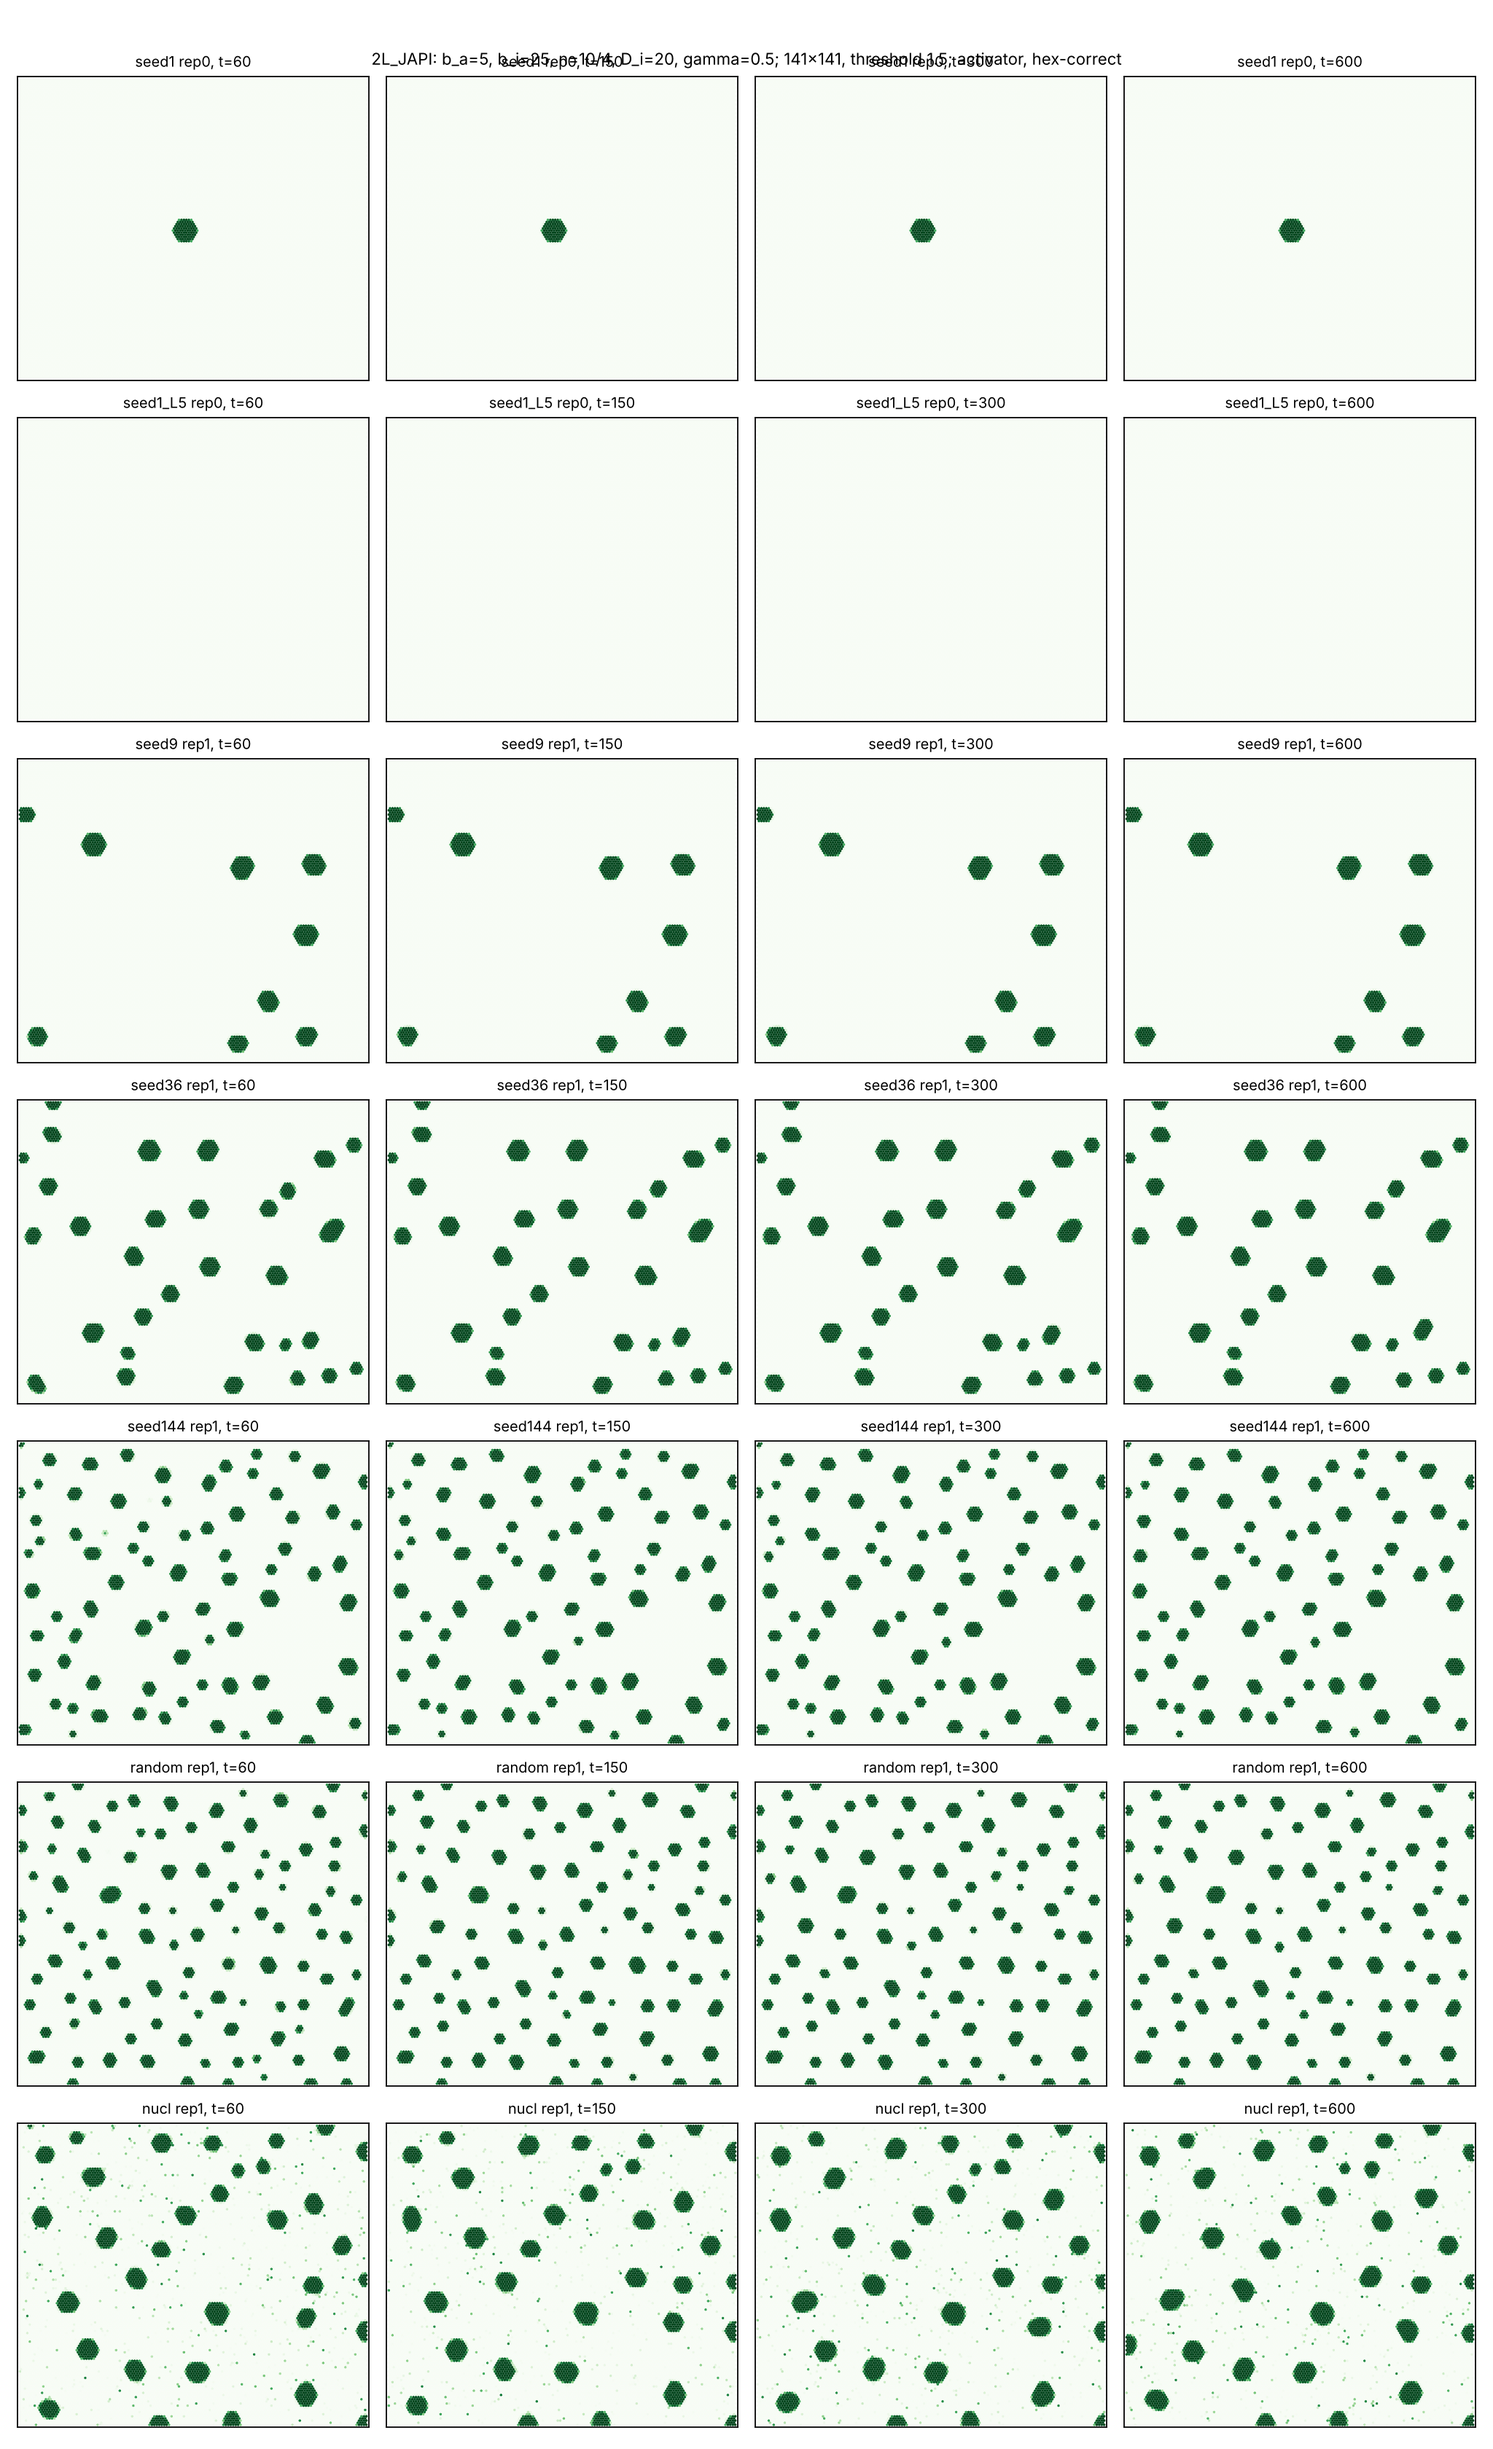
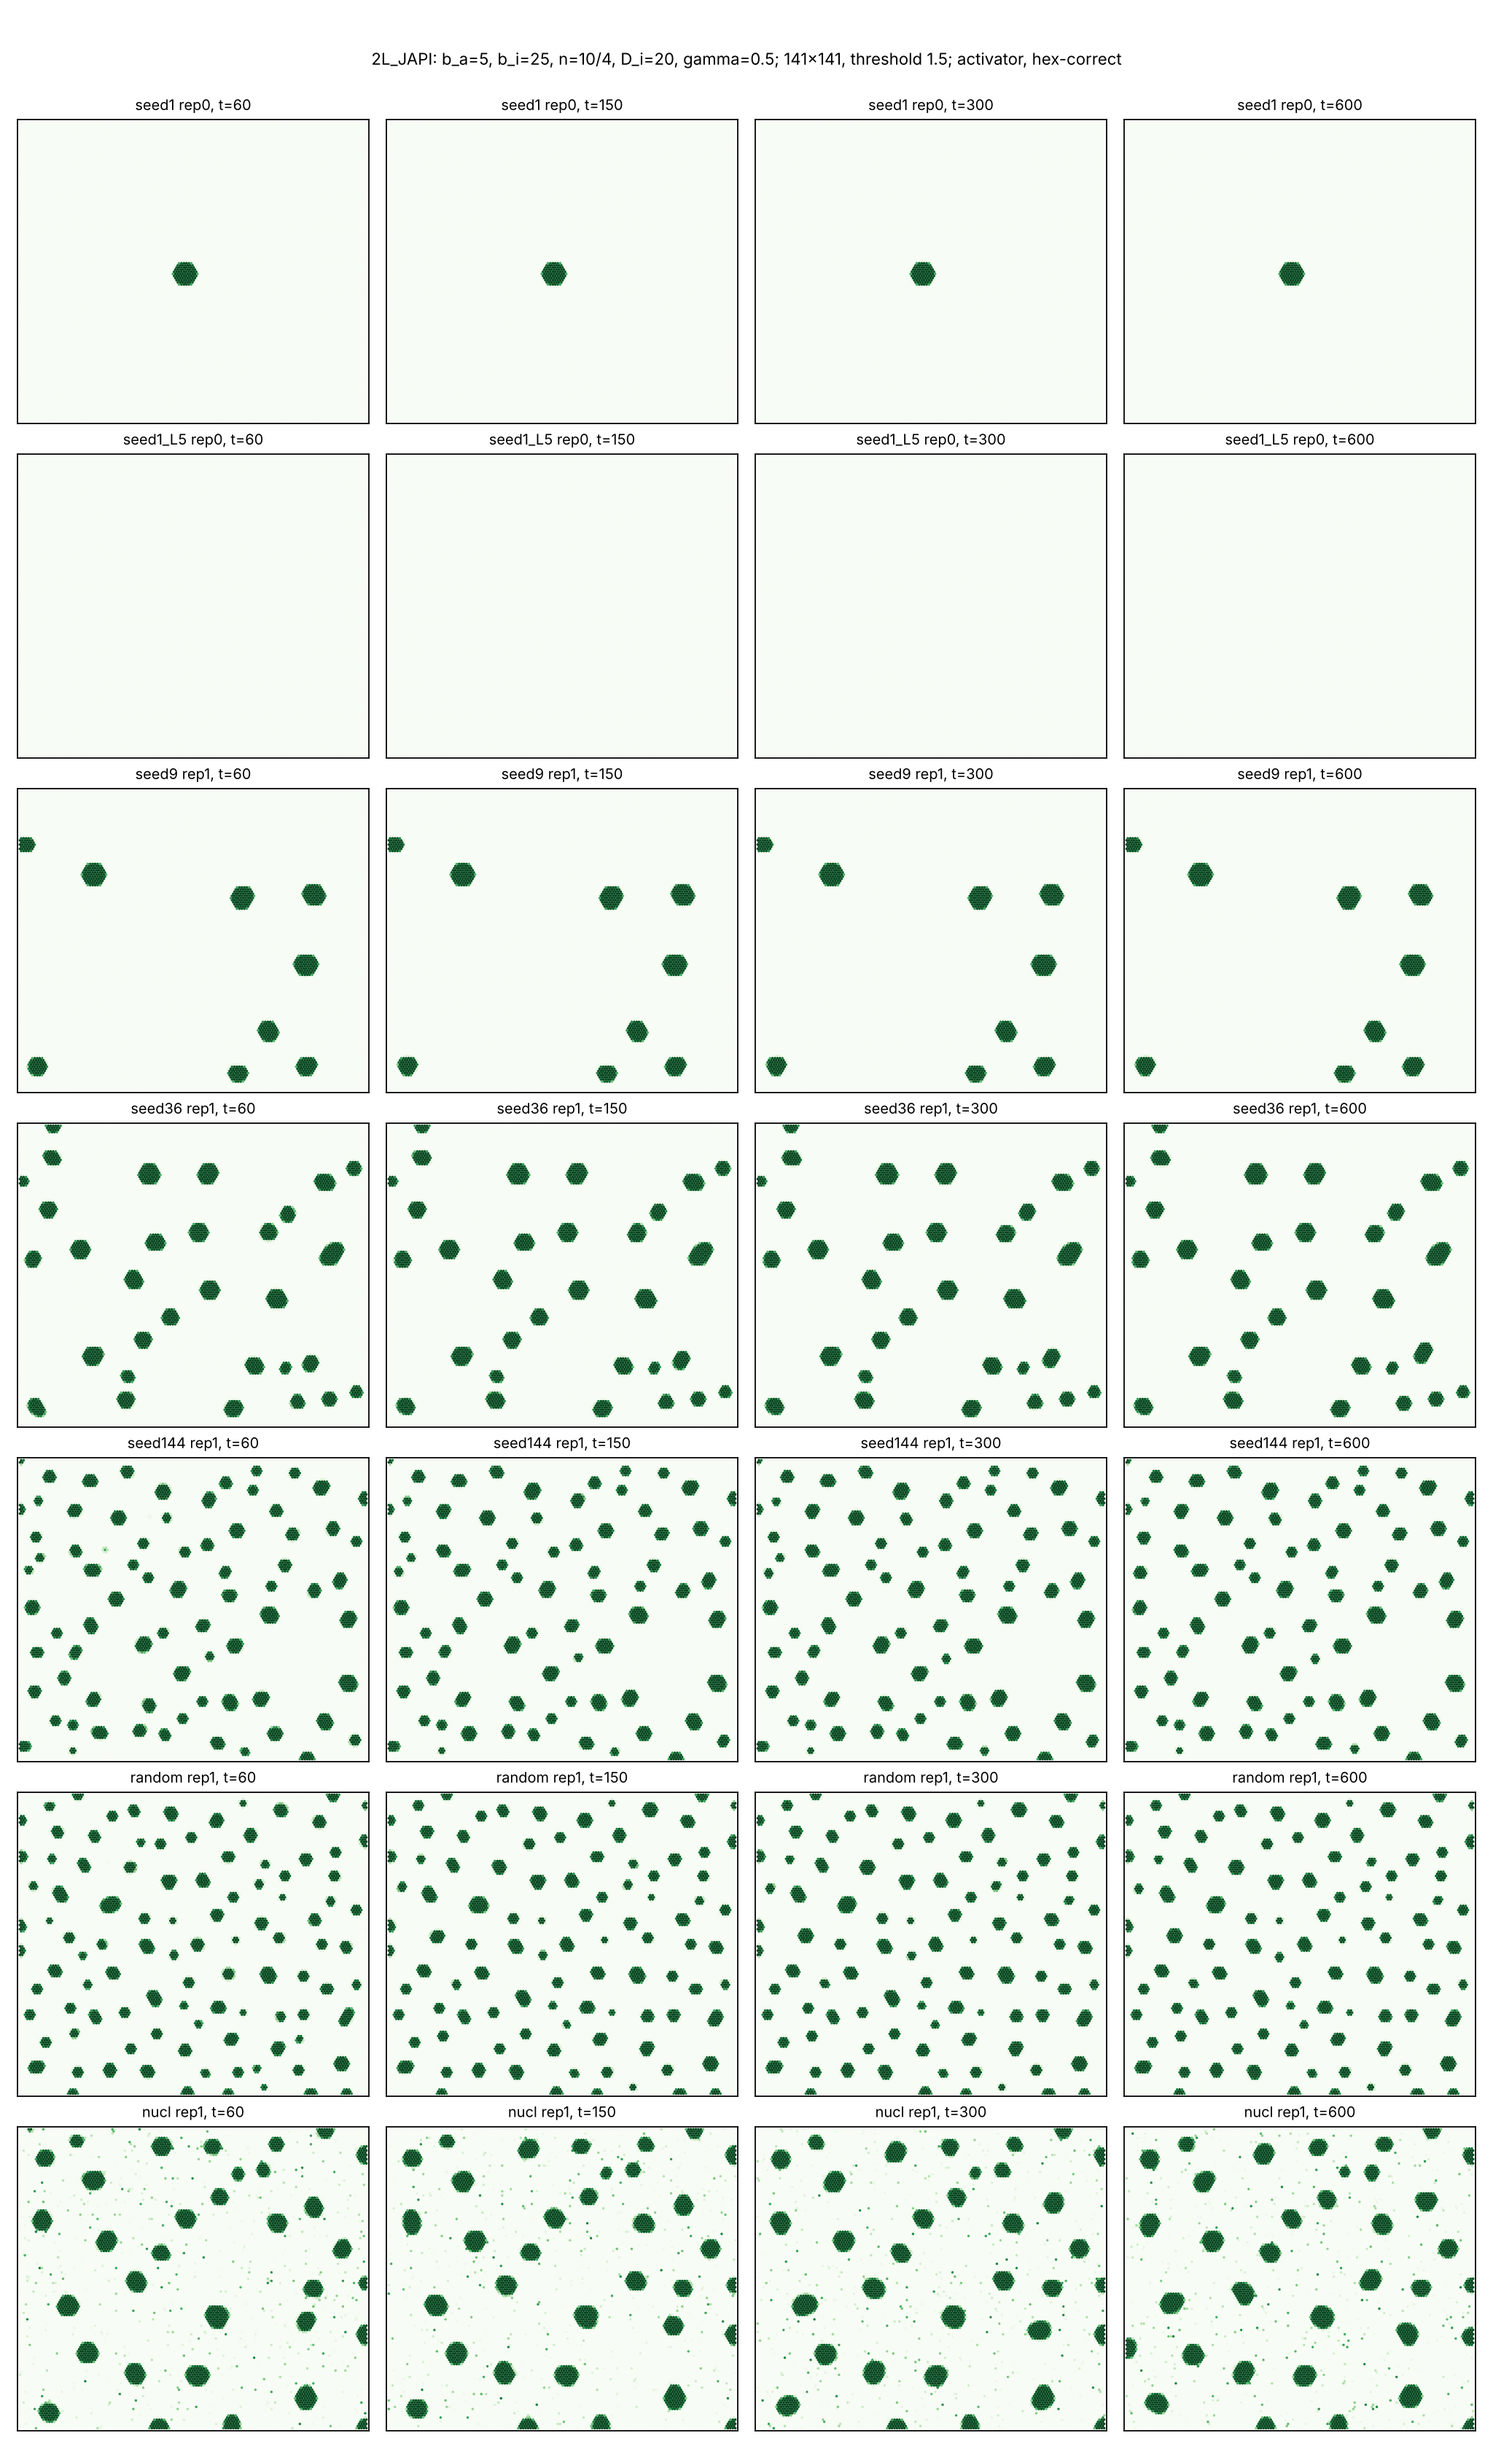
Keep figure suptitles clear of the first row; classify the experiment-matched sets with the lone-domain test
- plot_hex.save_panels: reserve space for the suptitle so it no longer overlaps the first row's panel titles; the eleven seed-crowding figures are regenerated (data unchanged).
- lone_domain_classifier.py: `expmatched` subcommand classifies the eight experiment-matched sets of REPORT section 11 and writes lone_domain_classifier_expmatched.csv (six arrested discs linearly stable, 3B_labyrinth and 2L_JA spreading).

Claude-Session: https://claude.ai/code/session_019DXEoG5qiVmnPvkLGYueTB

diff --git a/analysis/lone_domain_classifier.py b/analysis/lone_domain_classifier.py
@@ -96,13 +96,19 @@ def _job(args):
 
 
 EXPECTED = {"bi5": "spreading", "bi7": "spreading", "bi8": "divides", "bi9": "unstable/divides", "bi10": "unstable/divides", "bi11": "unstable (slow)", "bi12": "stable", "bi14": "stable"}
+EXPECTED.update({s: "stable" for s in ("2L_JAPI", "3L", "3B_big", "3B_small", "3H_lowDi", "S8D_lowri")})   # lone-seed fates of REPORT §11
+EXPECTED.update({"3B_labyrinth": "spreading", "2L_JA": "spreading"})
 
 if __name__ == "__main__":
-    if sys.argv[1] == "validate":
-        jobs = [(f"bi{bi}", circuit(5, bi, 0.5, 3, 3, 10)) for bi in (5, 7, 8, 9, 10, 11, 12, 14)]
+    if sys.argv[1] in ("validate", "expmatched"):
+        if sys.argv[1] == "validate":      # Fig 1C line, against the §10 fates
+            jobs = [(f"bi{bi}", circuit(5, bi, 0.5, 3, 3, 10)) for bi in (5, 7, 8, 9, 10, 11, 12, 14)]
+        else:                              # the eight experiment-matched sets of REPORT §11
+            from analysis.seed_crowding import GROUPS
+            jobs = list(GROUPS["expmatched"]["sets"].items())
         with Pool(2) as pool:
             out = pool.map(_job, jobs, chunksize=1)
-        with open(ROOT / "analysis" / "summaries" / "lone_domain_classifier_validation.csv", "w", newline="") as f:
+        with open(ROOT / "analysis" / "summaries" / f"lone_domain_classifier_{'validation' if sys.argv[1] == 'validate' else 'expmatched'}.csv", "w", newline="") as f:
             cols = ["name", "expected", "outcome", "area", "blobs", "coverage", "sigma", "rising", "t_div", "dev_start", "dev_mid", "dev_end", "t_relax", "t_probe"]
             w = csv.DictWriter(f, fieldnames=cols, lineterminator="\n", extrasaction="ignore"); w.writeheader(); w.writerows(out)
         print(f"{'set':<6}{'expected':<17}{'outcome':<11}{'area':>6}{'blobs':>6}{'sigma':>9}{'rising':>7}{'t_div':>7}{'dev start->mid->end':>30}")

diff --git a/analysis/plot_hex.py b/analysis/plot_hex.py
@@ -40,4 +40,7 @@ def save_panels(fields, titles, path, cmaps=None, suptitle=None, ncols=None):
             ax.axis("off")
     if suptitle:
         fig.suptitle(suptitle, fontsize=10)
-    fig.tight_layout(); fig.savefig(path, dpi=160); plt.close(fig)
+        fig.tight_layout(rect=(0, 0, 1, 1 - 0.4 / fig.get_figheight()))   # keep the suptitle clear of the first row's titles
+    else:
+        fig.tight_layout()
+    fig.savefig(path, dpi=160); plt.close(fig)
